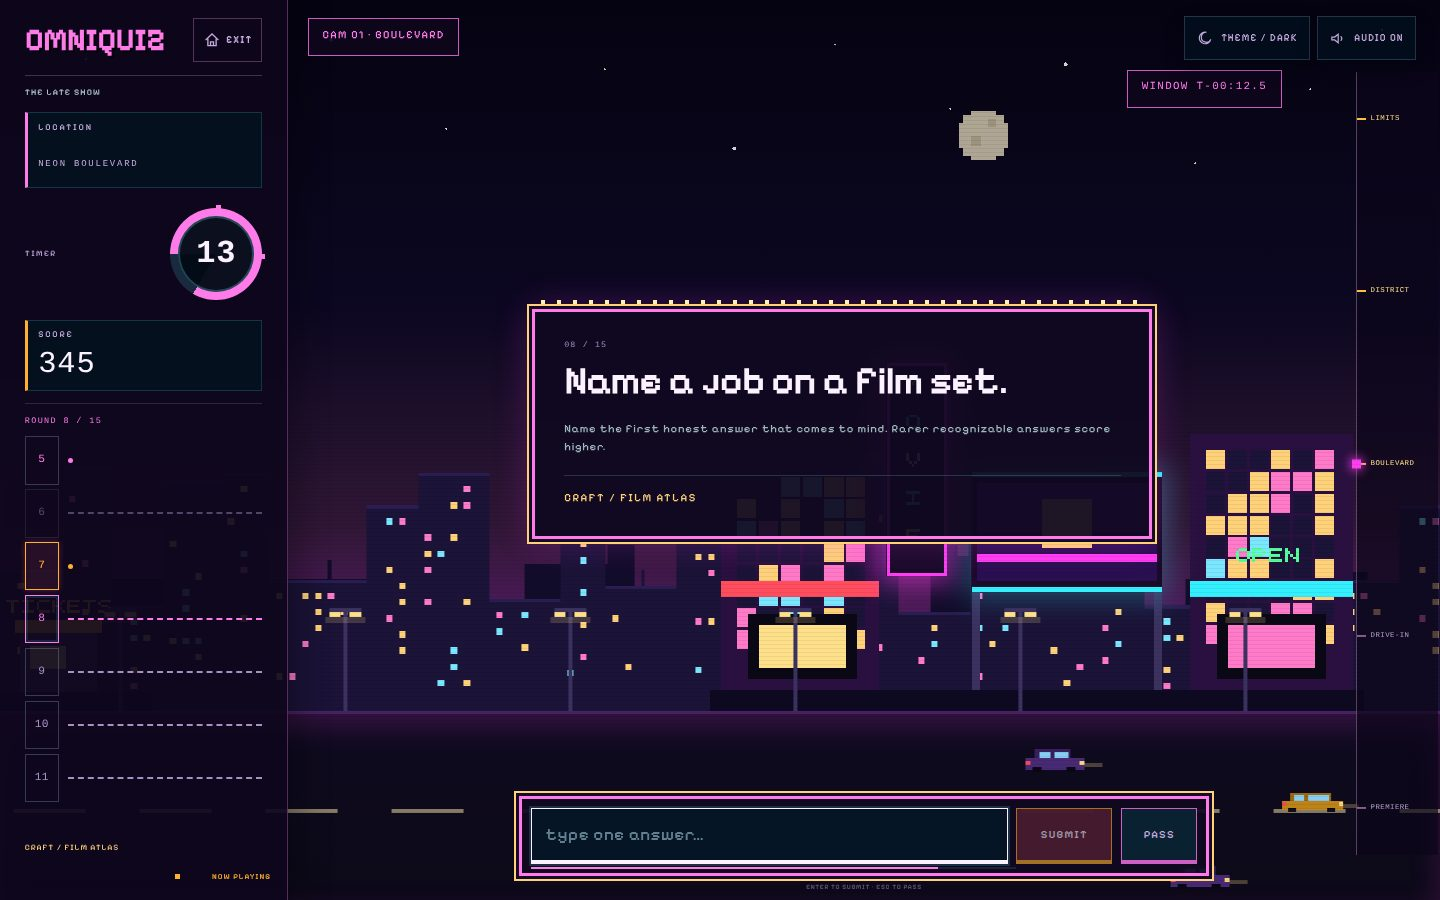
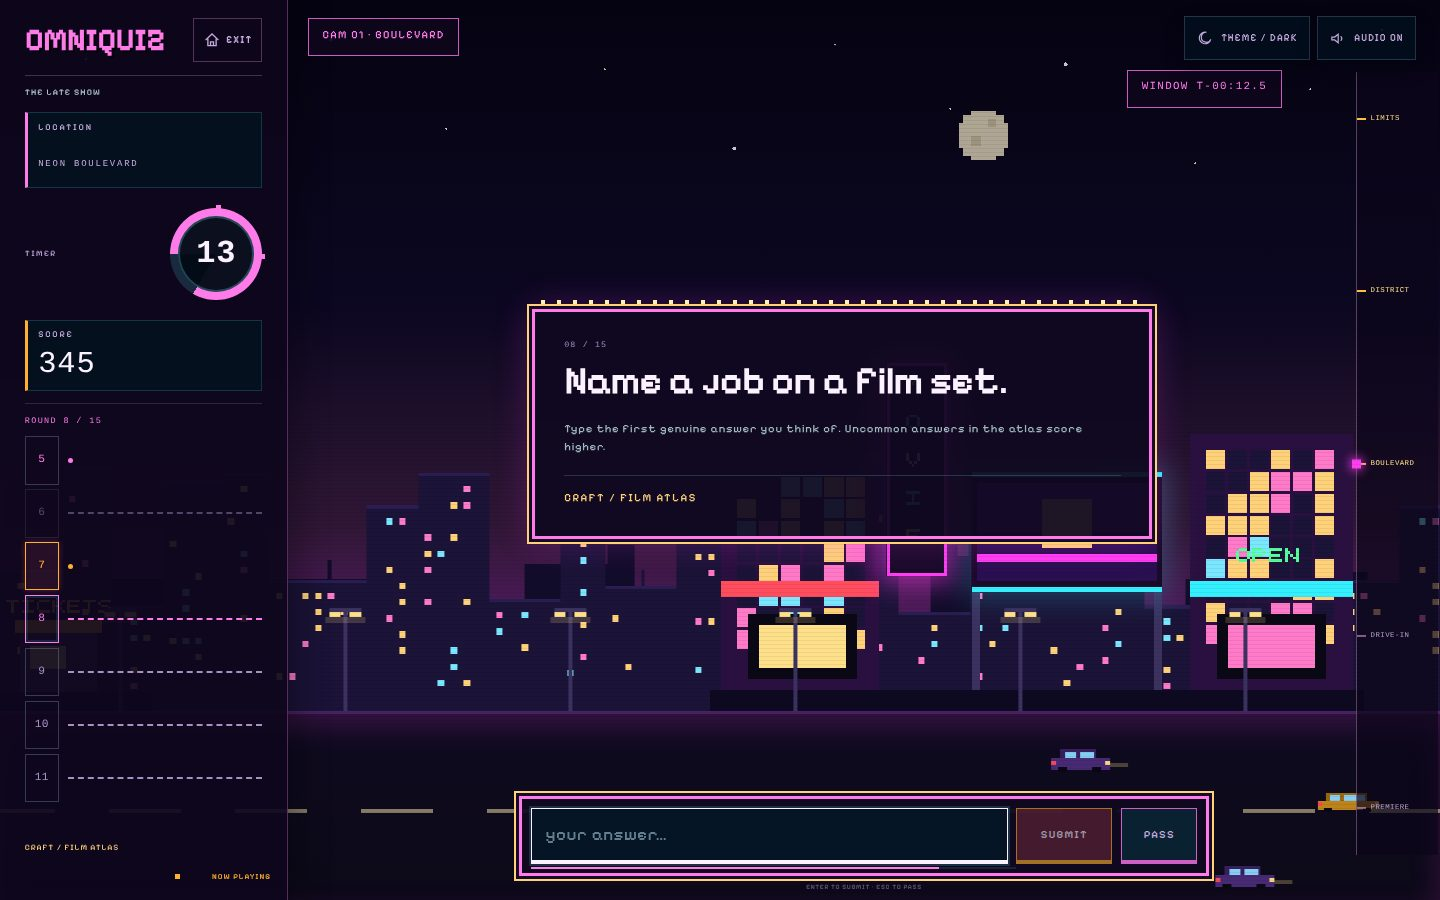
Align prompt hints with the new wording and refresh screenshots
Claude-Session: https://claude.ai/code/session_01V6UY6Cjog2rqtTNUkWuJcd

diff --git a/src/lib/packs/environment.ts b/src/lib/packs/environment.ts
@@ -184,8 +184,8 @@ const OCEAN_LEXICON: Lexicon = Object.freeze({
   promptHint: {
     daily: "Type the first genuine answer you think of. Uncommon answers in the atlas take the ROV deeper.",
     unlimited: "Type the first genuine answer you think of. Uncommon answers in the atlas take the ROV deeper.",
-    speed: "Name the first honest answer that comes to mind. Rarer recognizable signals score higher.",
-    survival: "Name the first honest answer that comes to mind. Rarer recognizable signals keep you alive.",
+    speed: "Type the first genuine answer you think of. Uncommon answers in the atlas score higher.",
+    survival: "Type the first genuine answer you think of. Any answer in the atlas keeps you alive.",
   },
   noMatchNote: {
     daily: "No atlas match logged; the expedition continues.",
@@ -254,8 +254,8 @@ const CINEMA_LEXICON: Lexicon = Object.freeze({
     survival: "SURVIVAL RUN",
   },
   modeDescription: {
-    daily: "7 prompts · 15 seconds each · rarer answers score higher",
-    unlimited: "15 prompts · repeatable screenings · rarer answers score higher",
+    daily: "7 prompts · 15 seconds each · uncommon answers score higher",
+    unlimited: "15 prompts · repeatable screenings · uncommon answers score higher",
     speed: "10 prompts · 8 seconds each · streak multipliers reward momentum",
     survival: "3 lives · 30 prompts · every miss costs a life",
   },
@@ -328,10 +328,10 @@ const CINEMA_LEXICON: Lexicon = Object.freeze({
     survival: "RUN IT AGAIN",
   },
   promptHint: {
-    daily: "Name the first honest answer that comes to mind. Rarer recognizable answers score higher.",
-    unlimited: "Name the first honest answer that comes to mind. Rarer recognizable answers score higher.",
-    speed: "Name the first honest answer that comes to mind. Rarer recognizable answers score higher.",
-    survival: "Name the first honest answer that comes to mind. Rarer recognizable answers keep you alive.",
+    daily: "Type the first genuine answer you think of. Uncommon answers in the atlas score higher.",
+    unlimited: "Type the first genuine answer you think of. Uncommon answers in the atlas score higher.",
+    speed: "Type the first genuine answer you think of. Uncommon answers in the atlas score higher.",
+    survival: "Type the first genuine answer you think of. Any answer in the atlas keeps you alive.",
   },
   noMatchNote: {
     daily: "No atlas match logged; the show goes on.",
